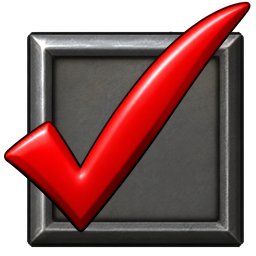
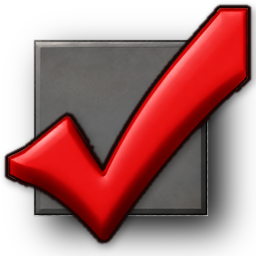
feat: ship smooth high-resolution checkbox artwork

diff --git a/docs/art/ui-checkbox/prepare_runtime.py b/docs/art/ui-checkbox/prepare_runtime.py
@@ -1,187 +1,54 @@
-"""Prepare the runtime checkbox sprites from the approved checkmark and the
-classic box.
+"""Validate and install the approved 8x checkbox states.
 
-`approved/` holds the checked and unchecked sprites approved on 2026-09-22.
-They share one base, so the checkmark layer is recovered from the pair. Its
-coverage is exact wherever the base is not opaque. Where its antialiased rim
-covers the opaque base, the coverage is solved from the colour of the nearest
-solidly covered checkmark pixel.
-
-The box is the flat classic box of `GUICheckbox.png`, rebuilt at 8x. The
-classic cell is a box over a pure black drop shadow. The shadow is fitted as
-a blurred, offset box, which gives the box's own coverage and colour. Each
-edge band keeps its colour along the edge, relative to the face, and the face
-mottling is upsampled smoothly. Both checked states are composited over the
-box. The disabled state converts only the checkmark to Rec. 709 luma.
+The flat box and the complete red mark were reviewed together. Keep the box
+identical in every state, and derive the disabled mark with Rec. 709 luma.
+The checked and disabled PNGs are retained beside the layers so the generated
+runtime images can be checked against the exact artwork that was approved.
 """
 
 from __future__ import annotations
 
 from pathlib import Path
+from shutil import copyfile
 
 import numpy as np
 from PIL import Image
-from scipy import ndimage, optimize
-from scipy.special import erf
 
 HERE = Path(__file__).resolve().parent
-ROOT = HERE.parents[2]
-OUT = ROOT / "crates/clonk-app/assets/ui-icons"
-CLASSIC = ROOT / "planet/Graphics.c4g/GUICheckbox.png"
-SCALE = 8
-SIZE = 32 * SCALE
-# Classic pixels of the unchecked cell: those the box touches, its face, and
-# the straight runs of its edges, as (left, top, right, bottom).
-BOX = (4, 5, 26, 27)
-FACE = (8, 9, 23, 24)
-RUN_X, RUN_Y = slice(9, 22), slice(10, 23)
+OUT = HERE.parents[2] / "crates/clonk-app/assets/ui-icons"
+SIZE = (256, 256)
 
 
-def load(path: Path) -> np.ndarray:
-    return np.asarray(Image.open(path).convert("RGBA")).astype(float) / 255
-
-
-def premultiply(rgba: np.ndarray) -> np.ndarray:
-    return rgba[..., :3] * rgba[..., 3:4]
-
-
-def recover_checkmark(checked: np.ndarray, unchecked: np.ndarray) -> tuple[np.ndarray, np.ndarray]:
-    """Premultiplied colour and coverage of the checkmark composited over the
-    unchecked base in the approved checked sprite."""
-    covered = np.any(checked != unchecked, axis=2)
-    solid = ndimage.binary_erosion(covered, iterations=2)
-    _, nearest = ndimage.distance_transform_edt(~solid, return_indices=True)
-    rim = checked[..., :3][nearest[0], nearest[1]]
-    out, base = premultiply(checked), premultiply(unchecked)
-    # out = coverage * rim + base * (1 - coverage), in the least-squares sense.
-    delta = rim - base
-    spread = (delta**2).sum(axis=2)
-    estimate = ((out - base) * delta).sum(axis=2) / np.maximum(spread, 1e-9)
-    estimate = np.where(spread > (40 / 255) ** 2, estimate, 1)
-    # Coverage below these bounds would need a colour outside [0, 1].
-    brighter = np.where(out > base, (out - base) / np.maximum(1 - base, 1e-9), 0).max(axis=2)
-    darker = np.where(base > 0, 1 - out / np.maximum(base, 1e-9), 0).max(axis=2)
-    from_colour = np.where(solid, 1, np.clip(np.maximum(estimate, np.maximum(brighter, darker)), 0, 1))
-    base_alpha = unchecked[..., 3]
-    from_alpha = np.clip((checked[..., 3] - base_alpha) / np.maximum(1 - base_alpha, 1e-9), 0, 1)
-    coverage = np.where(covered, np.where(base_alpha <= 0.9, from_alpha, from_colour), 0)
-    colour = np.clip(out - base * (1 - coverage[..., None]), 0, coverage[..., None])
-    return colour, coverage
-
-
-def blurred_span(position: np.ndarray, low: float, high: float, sigma: float) -> np.ndarray:
-    """Coverage of [low, high) blurred by a Gaussian, at position."""
-    root = sigma * np.sqrt(2)
-    return 0.5 * (erf((high - position) / root) - erf((low - position) / root))
-
-
-def shadow_alpha(shadow: np.ndarray, xs: np.ndarray, ys: np.ndarray) -> np.ndarray:
-    left, top, right, bottom, sigma, peak = shadow
-    return peak * blurred_span(xs, left, right, sigma) * blurred_span(ys, top, bottom, sigma)
-
-
-def fit_shadow(cell: np.ndarray) -> np.ndarray:
-    """The drop shadow as a blurred box, fitted to the pure black shadow
-    pixels and the empty pixels around the box."""
-    black = (cell[..., :3].max(axis=2) == 0) & (cell[..., 3] > 0)
-    ys, xs = np.nonzero(black | (cell[..., 3] == 0))
-    target = cell[ys, xs, 3]
-    # Accelerate's matrix products raise spurious floating-point flags on
-    # macOS; the fit itself is finite.
-    with np.errstate(divide="ignore", over="ignore", invalid="ignore"):
-        return optimize.least_squares(
-            lambda shadow: shadow_alpha(shadow, xs + 0.5, ys + 0.5) - target,
-            x0=[5.5, 6.5, 27.5, 28.5, 1.5, 0.8],
-        ).x
-
-
-def upsample(face: np.ndarray) -> np.ndarray:
-    height, width = face.shape[:2]
-    channels = (
-        Image.fromarray(face[..., channel].astype(np.float32)).resize(
-            (width * SCALE, height * SCALE), Image.Resampling.BICUBIC
-        )
-        for channel in range(3)
-    )
-    return np.stack([np.asarray(channel) for channel in channels], axis=2)
-
-
-def classic_box(cell: np.ndarray) -> np.ndarray:
-    """The classic unchecked box and its drop shadow, rebuilt at SCALE."""
-    shadow = fit_shadow(cell)
-    centres_y, centres_x = np.mgrid[0:32, 0:32] + 0.5
-    beneath = shadow_alpha(shadow, centres_x, centres_y)
-    # alpha = coverage + (1 - coverage) * shadow; the shadow adds no colour.
-    body = cell[..., :3].max(axis=2) > 0
-    coverage = np.where(body, np.clip((cell[..., 3] - beneath) / (1 - beneath), 0, 1), 0)
-    colour = premultiply(cell) / np.maximum(coverage[..., None], 1e-9)
-
-    left_pixel, top_pixel, right_pixel, bottom_pixel = BOX
-    face_left, face_top, face_right, face_bottom = FACE
-    left = left_pixel + 1 - coverage[RUN_Y, left_pixel].mean()
-    right = right_pixel - 1 + coverage[RUN_Y, right_pixel - 1].mean()
-    top = top_pixel + 1 - coverage[top_pixel, RUN_X].mean()
-    bottom = bottom_pixel - 1 + coverage[bottom_pixel - 1, RUN_X].mean()
-
-    face = colour[face_top:face_bottom, face_left:face_right]
-    level = np.median(face.reshape(-1, 3), axis=0)
-    rows, columns = np.ones((32, 3)), np.ones((32, 3))
-    for y in (*range(top_pixel, face_top), *range(face_bottom, bottom_pixel)):
-        rows[y] = np.median(colour[y, RUN_X], axis=0) / level
-    for x in (*range(left_pixel, face_left), *range(face_right, right_pixel)):
-        columns[x] = np.median(colour[RUN_Y, x], axis=0) / level
-    row_factor = np.repeat(np.repeat(rows, SCALE, axis=0)[:, None], SIZE, axis=1)
-    column_factor = np.repeat(np.repeat(columns, SCALE, axis=0)[None], SIZE, axis=0)
-    # The left bands start below the top highlight rows, and the top inset
-    # rows start at the left inset line, as in the classic box.
-    column_factor[: (top_pixel + 2) * SCALE, : face_left * SCALE] = 1
-    row_factor[(top_pixel + 2) * SCALE : face_top * SCALE, : (left_pixel + 2) * SCALE] = 1
-
-    texture = upsample(face)
-    pixel = np.arange(SIZE)
-    texture_rows = np.clip(pixel - face_top * SCALE, 0, texture.shape[0] - 1)
-    texture_columns = np.clip(pixel - face_left * SCALE, 0, texture.shape[1] - 1)
-    box_colour = np.clip(texture[texture_rows][:, texture_columns] * row_factor * column_factor, 0, 1)
-
-    def span(low: float, high: float) -> np.ndarray:
-        return np.clip(np.minimum(pixel + 1, high * SCALE) - np.maximum(pixel, low * SCALE), 0, 1)
-
-    box_coverage = span(top, bottom)[:, None] * span(left, right)[None, :]
-    centres_y, centres_x = np.mgrid[0:SIZE, 0:SIZE] + 0.5
-    scaled_shadow = np.array([*shadow[:5] * SCALE, shadow[5]])
-    alpha = box_coverage + (1 - box_coverage) * shadow_alpha(scaled_shadow, centres_x, centres_y)
-    straight = box_colour * box_coverage[..., None] / np.maximum(alpha[..., None], 1e-9)
-    return np.concatenate([straight, alpha[..., None]], axis=2)
-
-
-def over(colour: np.ndarray, coverage: np.ndarray, base: np.ndarray) -> np.ndarray:
-    alpha = coverage + base[..., 3] * (1 - coverage)
-    out = colour + premultiply(base) * (1 - coverage[..., None])
-    straight = out / np.maximum(alpha[..., None], 1e-9)
-    return np.concatenate([straight, alpha[..., None]], axis=2)
-
-
-def quantize(rgba: np.ndarray) -> np.ndarray:
-    pixels = np.clip(np.round(rgba * 255), 0, 255).astype(np.uint8)
-    pixels[pixels[..., 3] == 0] = 0
-    return pixels
-
-
-def save(rgba: np.ndarray, name: str) -> None:
-    Image.fromarray(quantize(rgba)).save(OUT / name, optimize=True)
+def approved(name: str) -> Image.Image:
+    image = Image.open(HERE / "approved" / name)
+    if image.size != SIZE or image.mode != "RGBA":
+        raise ValueError(f"{name} must be a {SIZE[0]}x{SIZE[1]} RGBA sprite")
+    return image
 
 
 def main() -> None:
-    checked = load(HERE / "approved/checkbox-on.png")
-    unchecked = load(HERE / "approved/checkbox-off.png")
-    colour, coverage = recover_checkmark(checked, unchecked)
-    # Quantized first, so every uncovered pixel of the checked states matches
-    # the unchecked sprite exactly.
-    base = quantize(classic_box(load(CLASSIC)[:, :32])).astype(float) / 255
-    gray = 0.2126 * colour[..., 0] + 0.7152 * colour[..., 1] + 0.0722 * colour[..., 2]
-    save(base, "checkbox-off.png")
-    save(over(colour, coverage, base), "checkbox-on.png")
-    save(over(np.repeat(gray[..., None], 3, axis=2), coverage, base), "checkbox-disabled.png")
+    base = approved("checkbox-off.png")
+    mark = approved("checkmark.png")
+    checked = Image.alpha_composite(base, mark)
+    if not np.array_equal(np.asarray(checked), np.asarray(approved("checkbox-on.png"))):
+        raise ValueError("approved checked icon differs from the approved box and mark")
+
+    gray_pixels = np.array(mark)
+    gray = np.uint8(
+        np.round(
+            0.2126 * gray_pixels[..., 0]
+            + 0.7152 * gray_pixels[..., 1]
+            + 0.0722 * gray_pixels[..., 2]
+        )
+    )
+    gray_pixels[..., :3] = gray[..., None]
+    disabled = Image.alpha_composite(base, Image.fromarray(gray_pixels))
+    if not np.array_equal(np.asarray(disabled), np.asarray(approved("checkbox-disabled.png"))):
+        raise ValueError("approved disabled icon differs from the gray checkmark")
+
+    for name in ("checkbox-off.png", "checkbox-on.png", "checkbox-disabled.png"):
+        copyfile(HERE / "approved" / name, OUT / name)
+    print("validated and installed the approved checkbox states")
 
 
 if __name__ == "__main__":

diff --git a/crates/clonk-app/src/hd_ui_icons.rs b/crates/clonk-app/src/hd_ui_icons.rs
@@ -253,9 +253,9 @@ mod tests {
 
     #[test]
     fn unchecked_checkbox_art_averages_back_to_the_flat_classic_box() {
-        // The classic box is flat: a face with one-pixel edge bands over a
-        // soft drop shadow. Averaged over each classic pixel, the replacement
-        // reproduces the classic cell, which a raised bevel cannot.
+        // The approved smooth face softens the classic cell's pixel bands.
+        // Its averaged colour and shadow stay close to the flat source;
+        // the earlier raised bezel differed by 33.9 levels per pixel.
         let icons = prepared_sheets().unwrap();
         let sheet = icons
             .iter()
@@ -290,7 +290,7 @@ mod tests {
             .sum::<f64>()
             / 1024.0;
         assert!(
-            mean_difference <= 3.0,
+            mean_difference <= 8.0,
             "averaged over each classic pixel, the replacement differs from the classic box by \
              {mean_difference:.1} levels per pixel"
         );

diff --git a/docs/art/ui-icons.md b/docs/art/ui-icons.md
@@ -7,10 +7,10 @@ file-browser, lobby, Voice-tab, and checkbox artwork. Each runtime source is
 The recording-off and unlocked states were revised from their approved active
 counterparts. Recording off is grayscale with no checkmark. The unlocked lock
 uses the same rounded body, metal bands and rivets, with an open shackle.
-Both checkbox states use the exact same prepared unchecked base and a separate
-red checkmark. The disabled checked state desaturates only the checkmark;
-uncovered base pixels remain identical. The base is the classic box rebuilt
-at 8×; see [Checkbox box](#checkbox-box).
+Both checkbox states use the exact same approved smooth unchecked base and a
+separate red checkmark. The disabled checked state desaturates only the
+checkmark; uncovered base pixels remain identical. See
+[Checkbox box](#checkbox-box).
 
 `ImageData` attaches replacements to cells in the original sheets. Facet draws
 resolve those cells, including clipped subrectangles, before sampling or GPU
@@ -73,28 +73,20 @@ priority, stable texture identities, and shared checkbox pixels.
 
 ## Checkbox box
 
-The checkbox box is the flat classic box of `GUICheckbox.png`, rebuilt at 8×.
-It keeps the classic box bounds: x 4–26 and y 5–27 of the classic 32-pixel
-cell, x 32–208 and y 40–216 of the 256-pixel one. The approved checkmark spans
-the classic checkmark's extent, so it overhangs the box on every side and sits
-centred on it, as the classic checkmark does.
+The checkbox box keeps the flat classic box bounds: x 4–26 and y 5–27 of the
+classic 32-pixel cell, x 32–208 and y 40–216 of the 256-pixel one. Its smooth
+face and restrained lower-right shadow were approved with the complete icon.
+The red checkmark spans the classic checkmark's extent, so it overhangs the box
+on every side and sits centred on it, as the classic checkmark does.
 
-[`ui-checkbox/prepare_runtime.py`](ui-checkbox/prepare_runtime.py) prepares the
-three checkbox sprites:
-
-- It recovers the approved checkmark layer from the approved pair kept in
-  `ui-checkbox/approved/`. The layer's coverage is exact wherever the base is
-  not opaque. Where the checkmark's antialiased rim covers the opaque base,
-  its coverage is solved from the colour of the nearest solidly covered
-  checkmark pixel.
-- It rebuilds the classic unchecked box at 8×. The classic cell is a box over
-  a pure black drop shadow. The script fits the shadow as a blurred, offset
-  box, which gives the box's own coverage and colour. Each edge band keeps its
-  colour along the edge, relative to the face, and the face mottling is
-  upsampled smoothly. Averaged back over each classic pixel, the rebuilt box
-  is within two levels of the classic cell on average.
-- It composites the checkmark over the box for the checked state, and the
-  checkmark's Rec. 709 luma for the disabled checked state.
+[`ui-checkbox/prepare_runtime.py`](ui-checkbox/prepare_runtime.py) validates
+the approved 256×256 RGBA layers and states, then installs the three runtime
+sprites. It checks that the checked state is the exact alpha composite of the
+unchecked box and complete mark, and that the disabled state uses Rec. 709
+luma on the same mark. The approved states and separate mark are retained in
+`ui-checkbox/approved/`. The smooth box differs from the classic source by
+7.4 levels per pixel when averaged back to 32×32; the previous raised bezel
+differed by 33.9.
 
 ### Checkbox revisions
 
@@ -110,6 +102,14 @@ three checkbox sprites:
    rebuilt from the classic cell.
 
    ![Classic, fitted and flat checkboxes in the Audio options](ui-checkbox/flat-box.png)
+
+3. **Complete smooth icon**. The flat box and complete red checkmark were
+   reviewed together. The original 32×32 checked icon controlled the full
+   silhouette; enlarged crops controlled the blunt left tip and boxy right
+   arm. [The generation and preparation notes](ui-checkbox/full-icon-revision.md)
+   include the selected imagegen prompt and source artwork.
+
+   ![Classic, previous and approved complete checkboxes in the Audio options](ui-checkbox/full-icon-comparison.png)
 
 Both are unscaled crops of the Audio options, captured as above. Each Classic
 row is the capture's classic side; each Before row is the same capture on the

diff --git a/docs/art/ui-checkbox/full-icon-revision.md b/docs/art/ui-checkbox/full-icon-revision.md
@@ -1,0 +1,42 @@
+# Complete checkbox icon revision
+
+The approved 256×256 checkbox states adapt RedWolf Design's 32×32
+`planet/Graphics.c4g/GUICheckbox.png` checked and unchecked cells. They retain
+the flat square box, lower-right shadow, broad red V, blunt left nose, and
+boxy upper-right arm. The source artwork and adaptations use CC BY-NC 4.0;
+see `crates/clonk-app/assets/COPYING`.
+
+The complete checked cell, an enlarged crop of its left arm, and the previously
+approved flat unchecked box were supplied to built-in OpenAI imagegen. The
+selected prompt was:
+
+> Use case: precise-object-edit. Asset type: complete checked checkbox game
+> icon, 256×256. Image 1 is the ORIGINAL COMPLETE 32×32 checked icon and is
+> the authoritative EDIT TARGET for the ENTIRE composition and checkmark
+> silhouette. Image 2 is an enlarged close-up from that same original; it is
+> a DETAIL REFERENCE only for the red checkmark's left end. Image 3 is the
+> approved high-resolution flat gray unchecked checkbox; use it as the box's
+> appearance and exact shape. Produce a faithful smooth super-resolution of
+> the COMPLETE checked icon in Image 1, with the full gray box and entire red
+> checkmark visible on a square transparent canvas. Preserve Image 1's
+> overall position, scale, and broad V-shaped red mark. The left end must
+> follow Image 2: short blunt vertical face, angular rising top shoulder,
+> thick red body, dark diagonal underside. It must be integral to the
+> checkmark, not a separate narrow horizontal tab and not a pointed
+> triangular nose. The right rising arm ends with the original's squared,
+> nearly vertical outer edge. Keep the gray box flat, square, and understated
+> as in Image 3, with a restrained lower-right shadow. Smooth red painted
+> shading and clean antialiased edges; keep the original's shapes and
+> proportions. Genuine transparent alpha outside the complete icon. No
+> enlarged pixel blocks, checkerboard, text, extra objects, isolated crop,
+> bevelled metal box, or different checkmark design.
+
+The selected raw result is [`full-icon-imagegen.png`](full-icon-imagegen.png).
+It contains a baked checkerboard and a changed box finish. The approved red
+mark in `approved/checkmark.png` was extracted from that result, scaled to the
+classic red bounds, and fitted at its blunt left end to the original rows.
+It was composited over the approved smooth flat box in
+`approved/checkbox-off.png`. `approved/checkbox-on.png` is the complete icon
+the user reviewed; `approved/checkbox-disabled.png` uses Rec. 709 luma on
+the same mark. [`prepare_runtime.py`](prepare_runtime.py) verifies those exact
+relationships and copies the approved sprites into the application.
